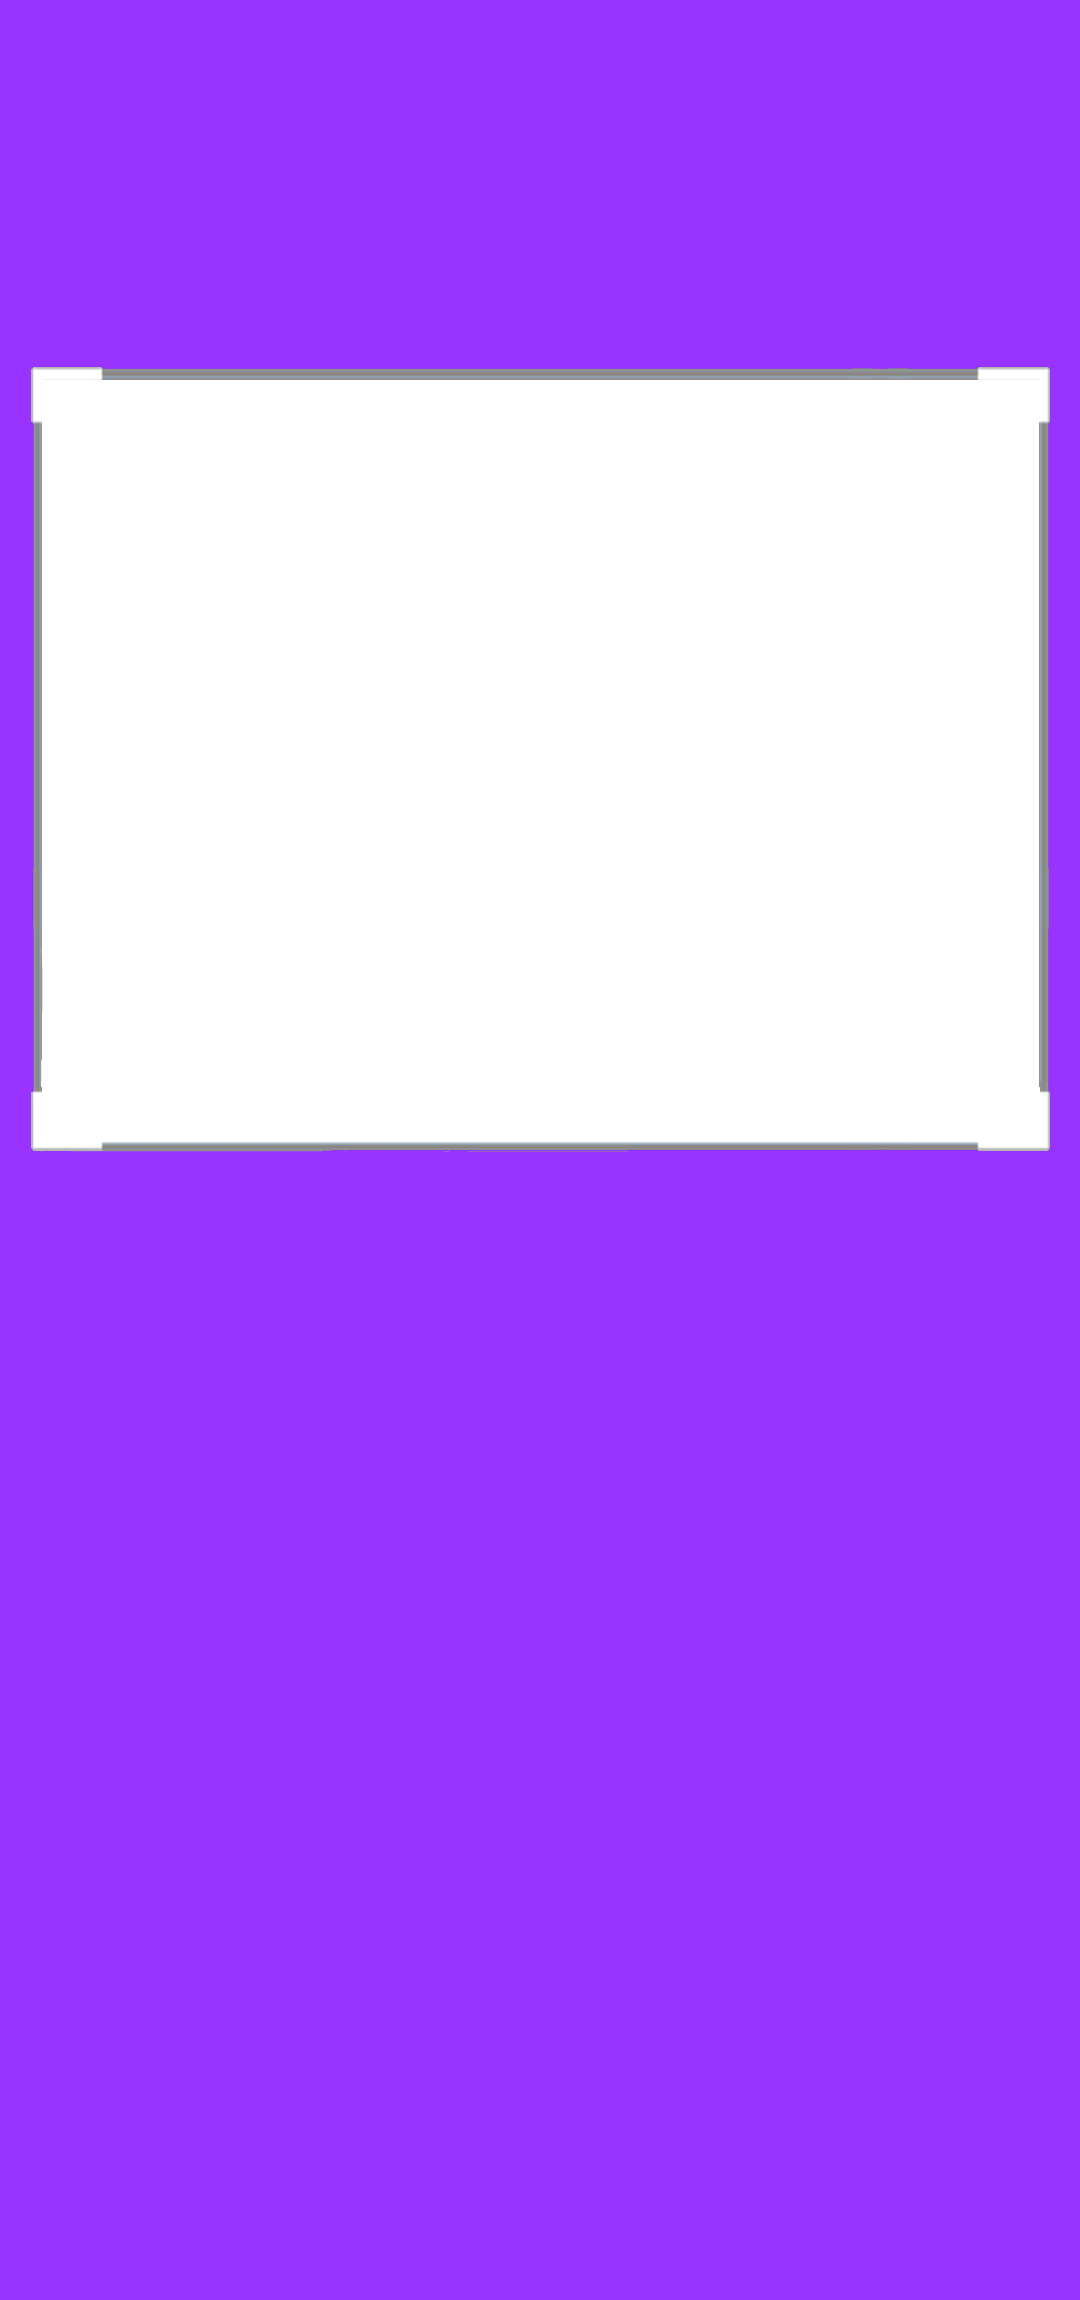
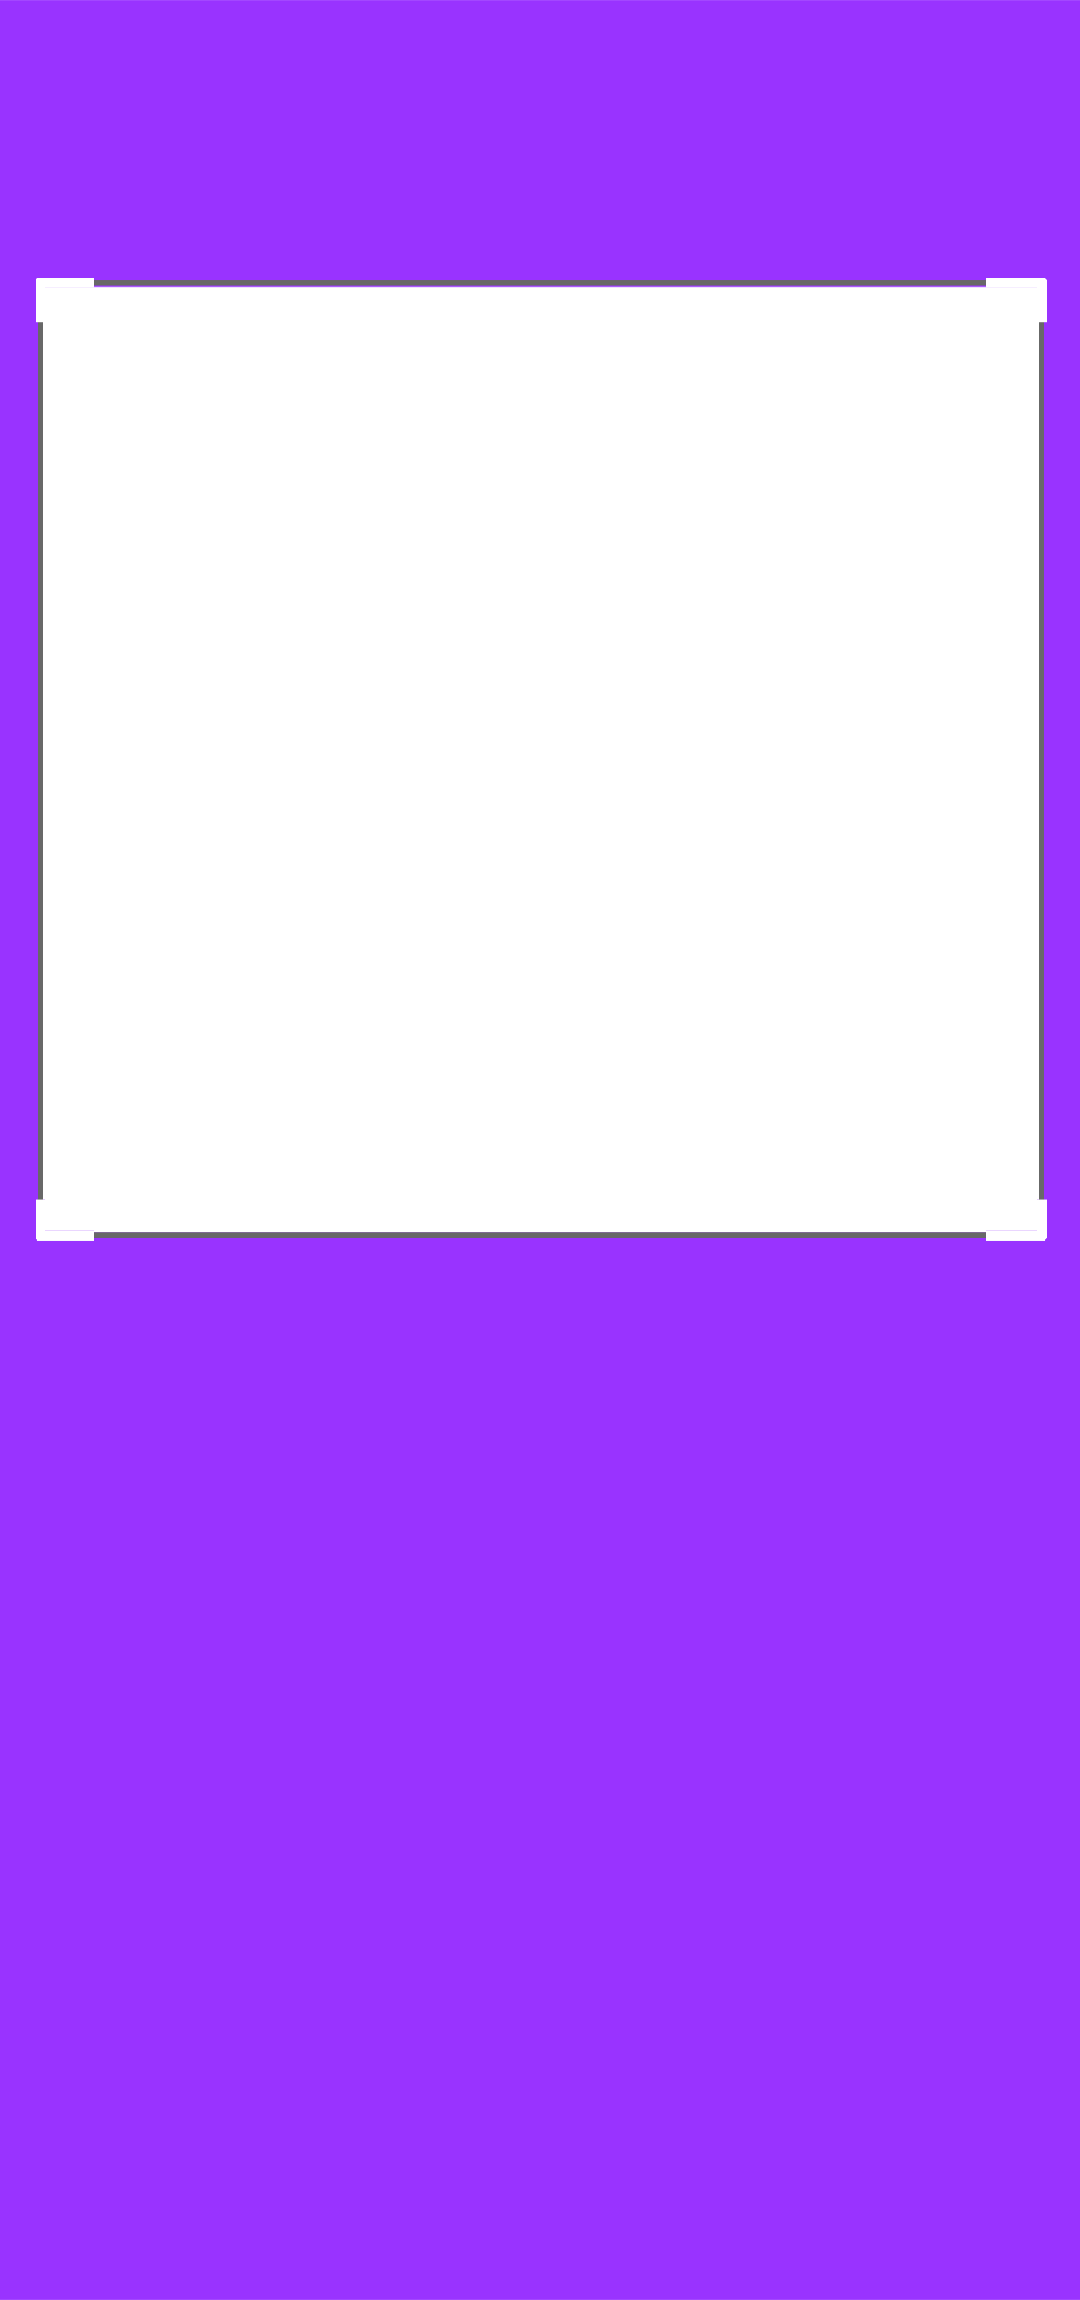
update

Changed region(s): [[0.0306, 0.1235, 0.9778, 0.5557]]

diff --git a/src/Views/IDDocCamera/IDDocCamera.js b/src/Views/IDDocCamera/IDDocCamera.js
@@ -3,7 +3,7 @@ import { withRouter } from "react-router";
 import Header from "../../Components/header/header"
 import captureImg from "../../assets/camera_take.png"
 import Webcam from '../../Components/Webcam.react';
-import frameURL from "../../assets/ic_background2.png"
+import frameURL from "../../assets/ic_background.png"
 import errorURL from "../../assets/ic_error.png"
 import Button from "../../Components/button/button"
 import backURL from "../../assets/ic_back.png"
